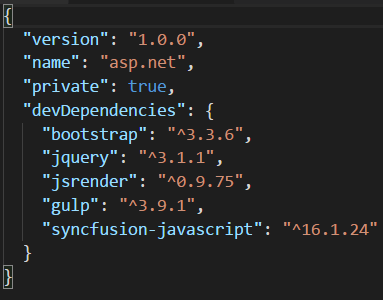
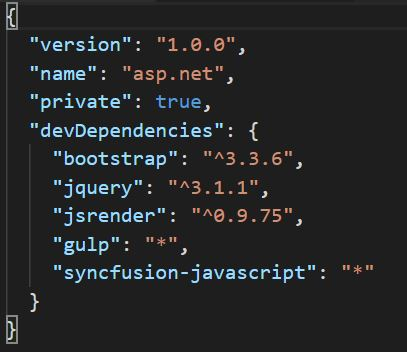
Updating the getting-started documentation for EJ1 for dotnet version 2.x

diff --git a/aspnet-core/GettingStarted/Getting-Started-2-x.md b/aspnet-core/GettingStarted/Getting-Started-2-x.md
@@ -91,13 +91,22 @@ N> Include the below mentioned scripts and CSS references under the appropriate 
 
     <link href="~/lib/syncfusion-javascript/Content/ej/web/bootstrap-theme/ej.web.all.min.css" rel="stylesheet" />
 
+    <!-- CDN style reference for EJ controls
+    <link href="http://cdn.syncfusion.com/{{ site.releaseversion }}/js/web/flat-azure/ej.web.all.min.css" rel="stylesheet" /> -->
+
     <link href="~/lib/syncfusion-javascript/Content/ej/web/responsive-css/ej.responsive.css" rel="stylesheet" />
+
+    <!-- CDN EJ responsive style reference for EJ controls
+    <link href="https://cdn.syncfusion.com/{{ site.releaseversion }}/js/web/responsive-css/ej.responsive.css" rel="stylesheet"> -->
 
     <script src="~/lib/jquery/dist/jquery.js"></script>
 
     <script src="~/lib/jsrender/jsrender.min.js"></script>
 
     <script src="~/lib/syncfusion-javascript/Scripts/ej/web/ej.web.all.min.js"></script>
+
+     <!-- CDN script reference for EJ controls
+    <script src="http://cdn.syncfusion.com/{{ site.releaseversion }}/js/web/ej.web.all.min.js"></script> -->
 
     </head>
 
@@ -207,8 +216,8 @@ N> **bower.json** file has been deprecated from the latest version of DotNetCore
         "bootstrap": "^3.3.6", 
         "jquery": "^3.1.1", 
         "jsrender": "^0.9.75", 
-        "gulp": "^3.9.1", 
-        "syncfusion-javascript": "^16.1.24" 
+        "gulp": "*", 
+        "syncfusion-javascript": "*" 
         } 
     } 
 
@@ -232,25 +241,20 @@ N> **bower.json** file has been deprecated from the latest version of DotNetCore
  {% highlight cshtml %} 
 
     var gulp = require('gulp'); 
-    gulp.task('copy', function () { 
+    gulp.task('copy', async function () { 
         gulp.src('./node_modules/syncfusion-javascript/**') 
             .pipe(gulp.dest('./wwwroot/lib/syncfusion-javascript')); 
     });
 
   {% endhighlight %}
 
-* To configure Visual Studio Code to use Gulp as task runner, Press ** Ctrl + Shift + P ** to bring up the command palette. Now type **Configure Task** and select **Create task.json file from template**.
+*  Open then command window prompt and run the below command to copy the necessary script and CSS files from node_modules directory to wwwroot directory.
 
- ![](getting-started_images/getting-started_img21.png) 
+{% highlight text %}
 
- * This will create **task.json** file in .vscode directory.
+  gulp copy 
 
-  ![](getting-started_images/getting-started_img22.png) 
-
-
-* Once again, press **Ctrl + Shift + P** to bring up the command palette. Type "Run Task" and select it, which will bring up a list of tasks configured in Gulp. Choose the Gulp Task **copy** to run gulp task to copy necessary script and CSS files from **node_modules** directory to **wwwroot** directory.
-
-  ![](getting-started_images/getting-started_img23.png)
+{% endhighlight %} 
 
 
 * Now open your **project.csproj** file to specify our assembly packages.
@@ -293,13 +297,22 @@ N> Kindly include the below mentioned scripts and CSS references under the appro
 
     <link href="~/lib/syncfusion-javascript/Content/ej/web/bootstrap-theme/ej.web.all.min.css" rel="stylesheet" />
 
+    <!-- CDN style reference for EJ controls
+    <link href="http://cdn.syncfusion.com/{{ site.releaseversion }}/js/web/flat-azure/ej.web.all.min.css" rel="stylesheet" /> -->
+
     <link href="~/lib/syncfusion-javascript/Content/ej/web/responsive-css/ej.responsive.css" rel="stylesheet" />
+
+    <!-- CDN responsive style reference for EJ controls
+    <link href="https://cdn.syncfusion.com/{{ site.releaseversion }}/js/web/responsive-css/ej.responsive.css" rel="stylesheet"> -->
 
     <script src="~/lib/jquery/dist/jquery.js"></script>
 
     <script src="~/lib/jsrender/jsrender.min.js"></script>
 
     <script src="~/lib/syncfusion-javascript/Scripts/ej/web/ej.web.all.min.js"></script>
+
+     <!-- CDN script reference for EJ controls
+    <script src="http://cdn.syncfusion.com/{{ site.releaseversion }}/js/web/ej.web.all.min.js"></script> -->
 
     </head>
 
@@ -444,8 +457,8 @@ Since **Visual Studio Code** uses folder structure for storing files of applic
         "bootstrap": "^3.3.6", 
         "jquery": "^3.1.1", 
         "jsrender": "^0.9.75", 
-        "gulp": "^3.9.1", 
-        "syncfusion-javascript": "^16.1.24" 
+        "gulp": "*", 
+        "syncfusion-javascript": "*" 
         } 
     } 
 
@@ -467,27 +480,22 @@ Since **Visual Studio Code** uses folder structure for storing files of applic
  {% highlight cshtml %} 
 
     var gulp = require('gulp'); 
-    gulp.task('copy', function () { 
+    gulp.task('copy', async function () { 
         gulp.src('./node_modules/syncfusion-javascript/**') 
             .pipe(gulp.dest('./wwwroot/lib/syncfusion-javascript')); 
     });
 
   {% endhighlight %}
 
-* To configure Visual Studio Code to use Gulp as task runner, Press ** Ctrl + Shift + P ** to bring up the command palette. Now type **Configure Task** and select **Create task.json file from template**.
+*  Open then command window prompt and run the below command to copy the necessary script and CSS files from node_modules directory to wwwroot directory.
 
- ![](getting-started_images/getting-started_img21.png) 
+{% highlight text %}
 
- * This will create **task.json** file in .vscode directory.
+  gulp copy 
 
-  ![](getting-started_images/getting-started_img24.png) 
+{% endhighlight %} 
 
-
-* Once again, press **Ctrl + Shift + P** to bring up the command palette. Type "Run Task" and select it, which will bring up a list of tasks configured in Gulp. Choose the Gulp Task **copy** to run gulp task to copy necessary script and CSS files from **node_modules** directory to **wwwroot** directory.
-
-  ![](getting-started_images/getting-started_img25.png)
-
-
+ 
 * Now open your **project.csproj** file to specify our assembly packages.
 
   ![](getting-started_images/getting-started_img26.png)
@@ -530,13 +538,22 @@ N> Kindly include the below mentioned scripts and CSS references under the appro
 
     <link href="~/lib/syncfusion-javascript/Content/ej/web/bootstrap-theme/ej.web.all.min.css" rel="stylesheet" />
 
+    <!-- CDN style reference for EJ controls
+    <link href="http://cdn.syncfusion.com/{{ site.releaseversion }}/js/web/flat-azure/ej.web.all.min.css" rel="stylesheet" /> -->
+
     <link href="~/lib/syncfusion-javascript/Content/ej/web/responsive-css/ej.responsive.css" rel="stylesheet" />
+
+    <!-- CDN responsive style reference for EJ controls
+    <link href="https://cdn.syncfusion.com/{{ site.releaseversion }}/js/web/responsive-css/ej.responsive.css" rel="stylesheet"> -->
 
     <script src="~/lib/jquery/dist/jquery.js"></script>
 
     <script src="~/lib/jsrender/jsrender.min.js"></script>
 
     <script src="~/lib/syncfusion-javascript/Scripts/ej/web/ej.web.all.min.js"></script>
+
+     <!-- CDN script reference for EJ controls
+    <script src="http://cdn.syncfusion.com/{{ site.releaseversion }}/js/web/ej.web.all.min.js"></script> -->
 
     </head>
 
